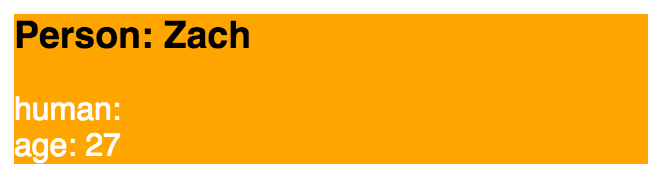
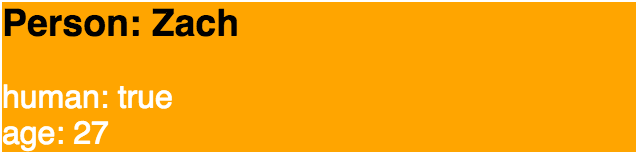
fix screenshot; minor cleanup

Changed region(s): [[0.0, 0.0, 1.0, 0.987]]

diff --git a/_site/react/2015/10/18/inline-react-styles-using-the-jsx-spread-operator.html b/_site/react/2015/10/18/inline-react-styles-using-the-jsx-spread-operator.html
@@ -80,6 +80,7 @@
       <span class="k">return</span> <span class="nx">foo</span> <span class="o">===</span> <span class="s1">&#39;bar&#39;</span><span class="p">;</span>
     <span class="p">}</span>
   <span class="p">},</span>
+
   <span class="nx">render</span><span class="p">()</span> <span class="p">{</span>
     <span class="k">return</span><span class="p">;</span>
   <span class="p">}</span>
@@ -109,10 +110,10 @@
 
 <p>This would result in a <code>newContact</code> object with the value of:</p>
 
-<div class="highlight"><pre><code class="language-javascript" data-lang="javascript"><span class="kd">let</span> <span class="nx">newContact</span> <span class="o">=</span> <span class="p">{</span>
+<div class="highlight"><pre><code class="language-javascript" data-lang="javascript"><span class="p">{</span>
   <span class="nx">name</span><span class="o">:</span> <span class="s1">&#39;Zach&#39;</span><span class="p">,</span>
   <span class="nx">human</span><span class="o">:</span> <span class="kc">false</span>
-<span class="p">};</span></code></pre></div>
+<span class="p">}</span></code></pre></div>
 
 <h3 id="how-can-i-apply-this-to-inline-styles-in-react">How Can I Apply This to Inline Styles in React?</h3>
 
@@ -157,7 +158,7 @@
 
     <span class="k">return</span> <span class="p">(</span>
       <span class="o">&lt;</span><span class="nx">div</span> <span class="nx">style</span><span class="o">=</span><span class="p">{</span><span class="k">this</span><span class="p">.</span><span class="nx">styles</span><span class="p">}</span><span class="o">&gt;</span>
-        <span class="o">&lt;</span><span class="nx">div</span><span class="o">&gt;</span><span class="nx">human</span><span class="o">:</span> <span class="p">{</span><span class="nx">person</span><span class="p">.</span><span class="nx">human</span><span class="p">}</span><span class="o">&lt;</span><span class="err">/div&gt;</span>
+        <span class="o">&lt;</span><span class="nx">div</span><span class="o">&gt;</span><span class="nx">human</span><span class="o">:</span> <span class="p">{</span><span class="nx">person</span><span class="p">.</span><span class="nx">human</span><span class="p">.</span><span class="nx">toString</span><span class="p">()}</span><span class="o">&lt;</span><span class="err">/div&gt;</span>
         <span class="o">&lt;</span><span class="nx">div</span><span class="o">&gt;</span><span class="nx">age</span><span class="o">:</span> <span class="p">{</span><span class="nx">person</span><span class="p">.</span><span class="nx">age</span><span class="p">}</span><span class="o">&lt;</span><span class="err">/div&gt;</span>
       <span class="o">&lt;</span><span class="err">/div&gt;</span>
     <span class="p">);</span>
